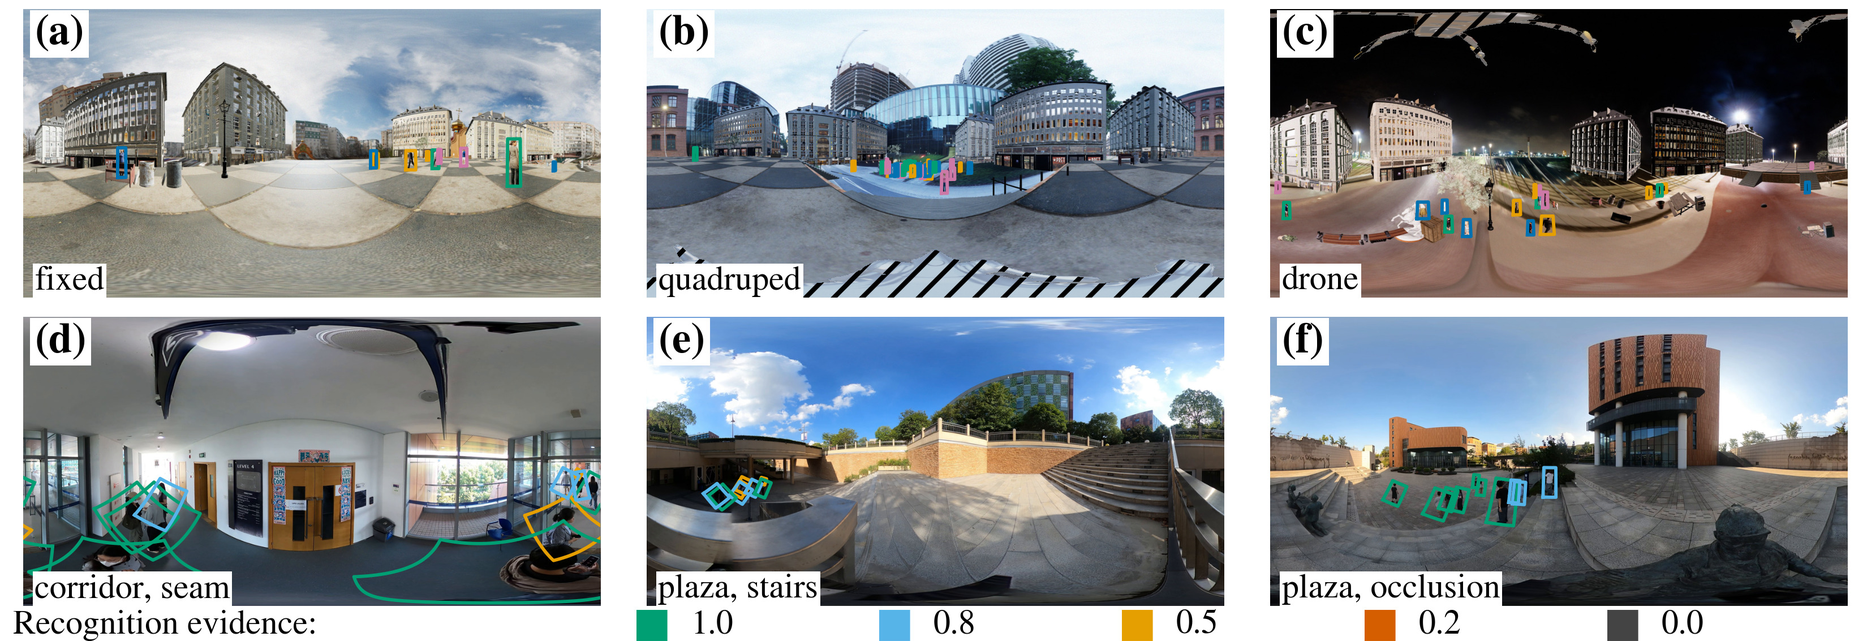
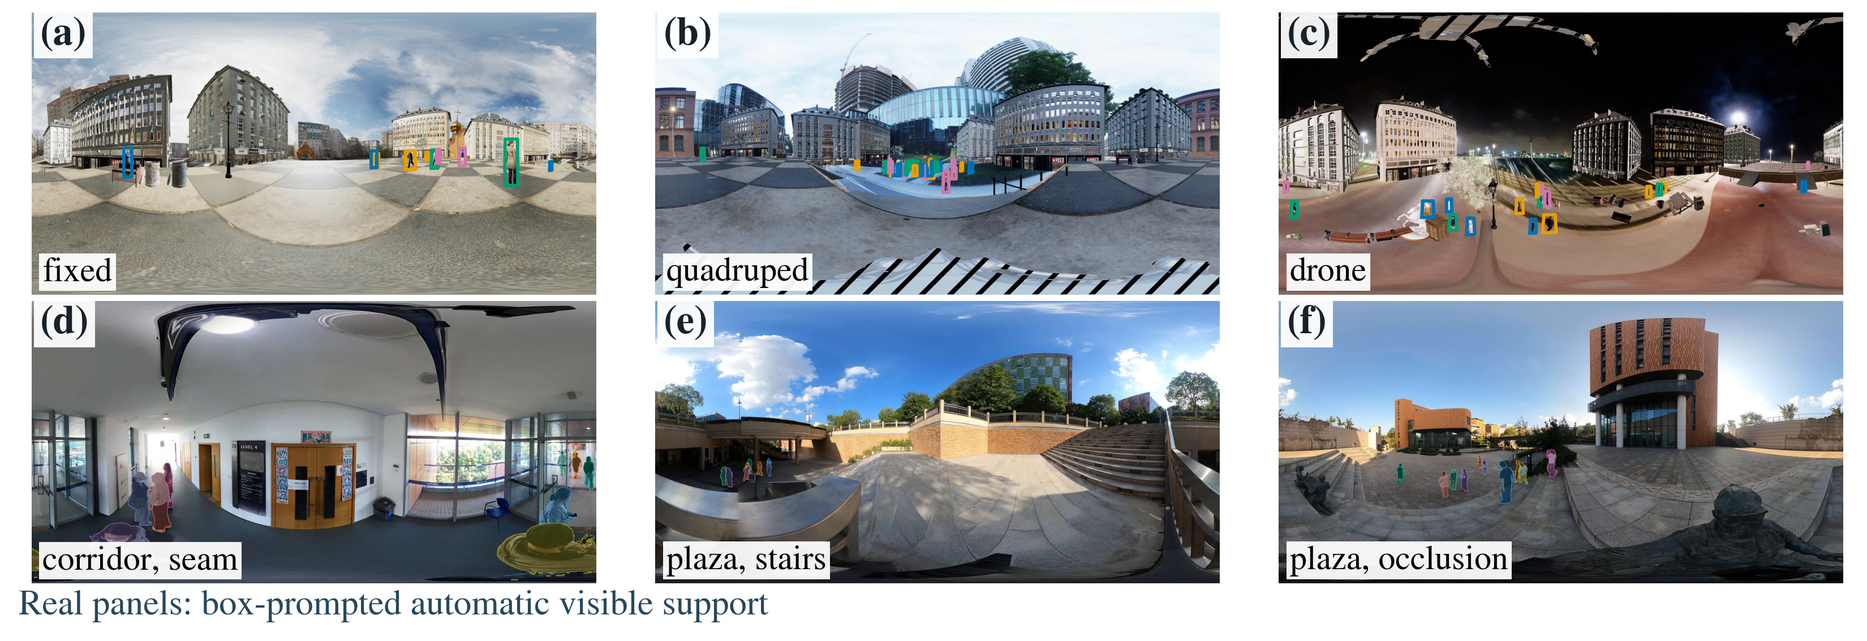
Document PanoPed releases and refresh support figures

diff --git a/README.md b/README.md
@@ -4,38 +4,49 @@
 
 ### Beyond Bounding Boxes for Sim-to-Real Panoramic Pedestrian Tracking
 
-**A full-sphere benchmark and Sextant, a query-conditioned spherical localization readout**
+**Full-sphere pedestrian tracking from fixed cameras, quadrupeds, and drones**
 
-[Project page](https://zhuqinfeng1999.github.io/PanoPed/) · [PanoPed-S](https://drive.google.com/drive/folders/1PjL8_KBVAmPNd1Zony2MQ9ogg1B7d2CR?usp=sharing) · [PanoPed-R](https://drive.google.com/drive/folders/1QYf_ocQALFYrwdfIa6g-bVwnnIQIXA9V?usp=sharing) · [Support-auto](https://drive.google.com/drive/folders/1zpZPpaFzvKcGMS_wfT3lX-uariYtm4Cg?usp=sharing)
+[![PanoPed-S](https://img.shields.io/badge/PanoPed--S-60_sequences-1578B5)](docs/data.md#panoped-s-v100) [![PanoPed-R](https://img.shields.io/badge/PanoPed--R-5_sequences-198F76)](docs/data.md#panoped-r-v090) [![Sextant](https://img.shields.io/badge/Sextant-34%2C692_parameters-8A61B5)](#sextant) [![License](https://img.shields.io/badge/Code-CC_BY--NC--SA_4.0-555555)](LICENSE)
 
-![Fixed, quadruped, drone, and real panoramic scenes](assets/gallery.jpg)
+[**Project page**](https://zhuqinfeng1999.github.io/PanoPed/) · [**Synthetic data**](https://drive.google.com/drive/folders/1PjL8_KBVAmPNd1Zony2MQ9ogg1B7d2CR?usp=sharing) · [**Real data**](https://drive.google.com/drive/folders/1QYf_ocQALFYrwdfIa6g-bVwnnIQIXA9V?usp=sharing) · [**Support-Auto**](https://drive.google.com/drive/folders/1zpZPpaFzvKcGMS_wfT3lX-uariYtm4Cg?usp=sharing)
+
+<img src="assets/gallery.jpg" width="100%" alt="PanoPed synthetic panoramas and real frames with automatically derived visible-support overlays">
+
+<sub>Top: synthetic fixed, quadruped, and drone views with native annotations. Bottom: consented real frames with box-prompted automatic Support-Auto masks; these are not manually drawn pixel labels.</sub>
 
 </div>
 
-**Short synthetic preview:** [drone-mounted ERP footage (MP4)](assets/drone_demo.mp4). The project page will host the full video introduction when the preprint goes online.
+> **Release status.** This repository is private while the arXiv page and public release are prepared. The Google Drive links are the author-provided package locations. Check access and the release-specific license before redistribution. Paper and video-introduction links will be added after posting.
 
-## What is here
+## Start here
 
-PanoPed-S has 60 one-minute synthetic sequences (108,000 frames) from fixed, quadruped-mounted and drone-mounted cameras. PanoPed-R has five real fixed-camera sequences (28,002 frames), of which three are densely annotated (16,247 frames). Support-auto is a separate automatically derived real target; it is **not** a replacement for the original Box-fit labels.
-
-Sextant reads a frozen 256-dimensional detector query, the initial spherical region, and the detection confidence. Its 34,692-parameter head predicts a four-dimensional localization correction. It changes the final spherical localization only; the detector's score, output count and tracker identities stay with the original tracker. The head does not add an image encoder or alter tracker history. The S-trained heads are evaluated on real Support-auto labels without fitting on real labels.
-
-On PanoPed-S TEST, the reported MOTIP baseline is **47.30 HOTA**, versus **49.49 / 49.47** for two Sextant seeds. On real Support-auto, source-only HAT improves from **31.71 to 32.85 HOTA** for seed 42. These are distinct protocols and tracker backbones; they are not a single leaderboard.
-
-## Repository map
-
-| Path | Purpose |
+| I want to… | Go to |
 |---|---|
-| `src/panoped/sextant.py` | Exact frozen-query architecture and spherical residual encode/decode |
-| `src/panoped/cli.py` | Portable bank-based training and inference |
-| `tests/` | Zero-residual, seam-wrap and bank-contract checks |
-| `docs/data.md` | Dataset packages, targets, release validation and licenses |
-| `docs/integration.md` | Frozen MOTIP/HAT integration contract and fair comparison setup |
-| `assets/` | Publication display figures; no dataset sequences or model weights |
+| Download only the RGB and labels needed for tracking | [Download and verify the three releases](docs/download.md) |
+| Understand the directory tree and annotation fields | [Dataset formats](docs/data.md) |
+| Train or apply the Sextant readout | [Quick start](#quick-start) and [integration contract](docs/integration.md) |
+| Compare trackers fairly | [Protocols and evaluation](docs/integration.md#evaluation-protocols) |
+| See representative video | [Synthetic drone ERP preview](assets/drone_demo.mp4); full introduction pending |
 
-The baseline trackers and detectors are **not vendored** here. Install and cite their official implementations under their own licenses. This repository contains the Sextant readout and a framework-neutral integration interface. The original experiment's bank creation and benchmark-evaluation receipts are described in `docs/integration.md`.
+## What is PanoPed?
 
-## Quick start
+| Release | Cameras | Scale | Primary target | Download |
+|---|---|---:|---|---|
+| **PanoPed-S v1.0.0** | 30 fixed, 18 quadruped, 12 drone | 60 × 1 min; 108,000 frames | Mask-derived spherical visible support | [Packages](https://drive.google.com/drive/folders/1PjL8_KBVAmPNd1Zony2MQ9ogg1B7d2CR?usp=sharing) |
+| **PanoPed-R v0.9.0** | Five real fixed-camera sequences | 28,002 frames; 16,247 labeled | Human modal box → spherical **Box-fit** | [Packages](https://drive.google.com/drive/folders/1QYf_ocQALFYrwdfIa6g-bVwnnIQIXA9V?usp=sharing) |
+| **R-Support-Auto v0.1** | Same three labeled real sequences | Annotation-only extension | Human-box-prompted SAM2.1 mask → S-compatible support | [Extension](https://drive.google.com/drive/folders/1zpZPpaFzvKcGMS_wfT3lX-uariYtm4Cg?usp=sharing) |
+
+The two real targets are **different evaluation protocols**. Support-Auto does not overwrite PanoPed-R's manually reviewed modal rectangles or original Box-fit leaderboard. See [the exact file trees and fields](docs/data.md).
+
+## Sextant
+
+<div align="center"><img src="assets/sextant_method.png" width="90%" alt="Sextant reads a frozen detector query, initial spherical geometry and confidence, then changes only final localization"></div>
+
+Sextant is a **34,692-parameter final-location readout**. It takes a frozen 256D detector query, the ordinary spherical initialization, and detection confidence. LayerNorm is applied to the query alone; the concatenated 262D input passes through a 128D GELU hidden layer and a four-value angular residual. It changes the final native spherical region without changing detection count, scores, physical track IDs, association, or tracker history. It does **not** add an image encoder to inference.
+
+In the paper's **PanoPed-S TEST** comparison, MOTIP's ordinary readout obtains 47.30 HOTA; two Sextant seeds obtain **49.49 / 49.47**. In the distinct **source-only real Support-Auto** protocol, HAT's same-stream readout goes from 31.71 to **32.85 HOTA** with Sextant seed 42. These figures use different trackers and targets and must not be merged into a single leaderboard.
+
+### Quick start
 
 ```bash
 python -m venv .venv
@@ -43,28 +54,37 @@ source .venv/bin/activate
 python -m pip install -e '.[test]'
 pytest -q
 
-# One .npz bank per TRAIN sequence; never mix a test sequence into this folder.
+# Export one .npz bank per TRAIN sequence using your frozen, matching detector.
 panoped-sextant train --bank-dir /path/to/train_banks --seed 42 \
   --steps 25000 --device cuda --output /path/to/checkpoints/sextant_s42.pt
 
-# The bank must contain the same frozen detector's query, geometry and score.
 panoped-sextant apply --bank /path/to/prediction_bank.npz \
   --model /path/to/checkpoints/sextant_s42.pt \
   --output /path/to/prediction_native.npz
 ```
 
-`train` expects `query[N,256]`, `base[N,7]`, `confidence[N]`, and `native[N,7]` in finite `float32` arrays, one `.npz` per training sequence. `base` and `native` each contain a unit center ray, log horizontal/vertical angular extents, and the fixed zero-roll release fields. `apply` needs only the first three arrays and passes through additional arrays such as original track IDs and frame offsets. See [the interface contract](docs/integration.md) before connecting it to a tracker.
+The bank contract is `query[N,256]`, `base[N,7]`, `confidence[N]`, and, for training, `native[N,7]` (`float32`). `apply` passes through unrelated arrays, including IDs and frame offsets. The bank must come from the **matching detector checkpoint**; a same-sized HAT or MASA feature is not a substitute for the S-trained MOTIP query. [Read the full integration contract](docs/integration.md) before connecting a tracker.
 
-## Data and evaluation
+## Repository map
 
-Download datasets **directly to your compute server**, validate package checksums, extract only the modalities you need, then remove verified archives if space is limited. The package manifests and verification scripts accompany the releases. See [data.md](docs/data.md) for source links and target distinctions. Do not redistribute participant frames outside the PanoPed-R license.
+```text
+PanoPed/
+├── README.md                  project overview and entry points
+├── LICENSE                    repository code/text terms (CC BY-NC-SA 4.0)
+├── pyproject.toml             installable Sextant package and CLI
+├── assets/                    publication figures and short video preview
+├── docs/
+│   ├── download.md            release URLs, selective extraction, verification
+│   ├── data.md                trees, units, L0–L3, Support-Auto record schema
+│   └── integration.md         query contract, training, evaluation protocols
+├── src/panoped/
+│   ├── sextant.py             architecture and angular residual decode
+│   └── cli.py                 bank-based train/apply commands
+└── tests/                     zero residual, seam, and bank-contract checks
+```
 
-The benchmark uses native spherical regions and HOTA/IDF1; a planar box metric is not a substitute. Report all seeds and all held-out sequences, and keep PanoPed-S, PanoPed-R Box-fit and PanoPed-R Support-auto scores separate. The real three-fold protocol trains on two labeled sequences and scores the third once per fold.
+MOTIP, HAT, detectors, checkpoints, and benchmark RGB are **not vendored**. Install the upstream trackers under their own licenses. The private draft currently provides the Sextant module and a framework-neutral bank interface; the experiment-specific bank exporter and checkpoint manifests still need a clean release adapter. We will not describe it as a one-command exact reproduction until those files are published.
 
-## Citation
+## Citation and permissions
 
-The arXiv identifier is pending. Please cite the paper once it is posted. This repository remains private until the authors announce the preprint.
-
-## License and provenance
-
-The authors have selected [Creative Commons Attribution-NonCommercial-ShareAlike 4.0 International](LICENSE) for the code and repository-authored text. It permits noncommercial reuse subject to attribution and share-alike, but it is **not** an OSI open-source software license, and Creative Commons does not recommend CC licenses for software. The datasets have separate research-use licenses; those terms do **not** automatically grant permission to relicense participant images, third-party assets, or baseline code. The publication figures derive from consented real footage and Unreal Engine renders and are not included in the code-license grant unless their underlying rights permit it. No raw dataset frames, credentials, model weights, or third-party baseline repositories are included here.
+The arXiv identifier is pending. Cite the paper once posted; until then, cite dataset release names and versions. The repository-authored code and text use [CC BY-NC-SA 4.0](LICENSE), a noncommercial Creative Commons license **not recognized as an OSI open-source software license**. It does not relicense participant footage, third-party assets, baseline implementations, or model weights. Each dataset package carries its own `LICENSE`, attribution, and release metadata; read those before use.

diff --git a/docs/data.md b/docs/data.md
@@ -1,18 +1,92 @@
-# PanoPed datasets
+# Dataset formats and target definitions
 
-| Release | Folder | Scope |
+The release-side `README.md`, `metadata/conventions.md`, schemas and verifier are authoritative. This guide is a compact entry point for training and evaluation code. All frame filenames are **one-based, six-digit** indices; sequences are the unit of splitting.
+
+## PanoPed-S v1.0.0
+
+The frozen split is 44 TRAIN / 8 VAL / 8 TEST sequences, each 1,800 frames at 30 fps. There are 30 fixed sequences (`SS-001`–`SS-030`), 18 quadruped and 12 drone sequences within `SE-001`–`SE-030`. Most frames are 2048×1024; four fixed TEST sequences are 3840×1920. Read `seqinfo.ini` and `meta.json` for each sequence instead of assuming one resolution.
+
+```text
+PanoPed-S/
+├── README.md  LICENSE  splits.json
+├── seqmaps/{train,val,test}.txt
+├── metadata/{conventions.md,sequences.json,checksums.sha256,...}
+├── tools/verify_release.py
+├── S-Static/SS-001/ … SS-030/
+└── S-Ego/SE-001/ … SE-030/
+    ├── img1/000001.jpg … 001800.jpg      RGB panorama
+    ├── gt/
+    │   ├── gt_l0.json                    per-instance COCO RLE mask
+    │   ├── gt_l1.json                    mask-derived spherical BFoV
+    │   ├── gt_l2.json                    wrap-aware ERP box
+    │   ├── gt.txt                        MOTChallenge-compatible L3 export
+    │   ├── mount_ignore.json             fixed support ignore polygon
+    │   └── platform_ignore.json          moving platform, S-Ego only
+    ├── meta.json  seqinfo.ini  log3d.jsonl  lifecycle.json
+    ├── qc_postprocess.json
+    ├── depth/                             optional radial uint16 PNGs
+    └── instance/                          optional instance-ID uint16 PNGs
+```
+
+The `training_required` package profile contains RGB, annotations and metadata, **not** dense `depth/` or `instance/` directories. Their absence is normal under that profile. L0 `gt_l0.json` and L1/L2 are still present.
+
+| Level | File | Record / units |
 |---|---|---|
-| PanoPed-S v1.0.0 | [Google Drive](https://drive.google.com/drive/folders/1PjL8_KBVAmPNd1Zony2MQ9ogg1B7d2CR?usp=sharing) | 60 sequences, 108,000 synthetic ERP frames; RGB, depth, masks, poses, 3D states are packaged separately |
-| PanoPed-R v0.9.0 | [Google Drive](https://drive.google.com/drive/folders/1QYf_ocQALFYrwdfIa6g-bVwnnIQIXA9V?usp=sharing) | Five real fixed-camera sequences; three labeled, two unlabeled |
-| PanoPed-R-Support-Auto v0.1 | [Google Drive](https://drive.google.com/drive/folders/1zpZPpaFzvKcGMS_wfT3lX-uariYtm4Cg?usp=sharing) | Automatically generated auxiliary support targets; separate evaluation protocol |
+| L0 | `gt_l0.json` | `{"W":2048,"H":1024,"frames":{"1":[{"id":1,"rle":{"size":[H,W],"counts":"…"},"area_px":…,"area_sr":…}]}}`; compressed COCO RLE, column-major counts |
+| L1 | `gt_l1.json` | `frames["1"][k] = {"id":1,"bfov":[clon,clat,fov_h,fov_v]}`; **degrees**, mask-derived |
+| L2 | `gt_l2.json` | `id`, `bbox:[x,y,w,h]` in pixels, `wrap`, `polar`, `visibility`; `x+w>W` is legal for a seam-crossing box |
+| L3 | `gt.txt` | Nine MOTChallenge columns: frame, ID, left, top, width, height, conf, class, visibility; seam fragments may occupy two rows |
 
-The original R-v0.9.0 **Box-fit** region and Support-auto region are different target definitions. Support-auto uses automatic masks prompted by human boxes, then applies the S-compatible target operator. It is not a human mask ground truth. Do not compare scores across the two real targets without rerunning every system on the same target.
+`visibility` takes 1.0 / 0.8 / 0.5 / 0.2 / 0.0. Synthetic visibility is a joint-support proxy; `visibility_ratio_raw` is only a diagnostic and is **not** the released label. Person IDs are sequence-local, never reused, and persist through occlusion. The ERP ray through pixel `(i,j)` uses `(i+0.5,j+0.5)`; `mount_ignore` polygon vertices use integer pixel-center index coordinates and closed-boundary membership. See `metadata/conventions.md` for the exact spherical and ignore-mask rules.
 
-The release packages include manifests and verification programs. Before training:
+## PanoPed-R v0.9.0
 
-1. Read each dataset's own research-use license and package manifest.
-2. Download to server-side scratch/work storage; do not mirror all modalities by default.
-3. Verify SHA-256 and the release verifier before deleting archives.
-4. Freeze sequence splits and keep test labels out of model/threshold selection.
+All five sequences use 3840×1920 gravity-aligned ERP at 29.97 fps. The camera is fixed; the release includes three densely labeled sequences and two unlabeled sequences.
 
-For PanoPed-S, the `training_required` profile contains the core package plus 60 RGB/label packages. Depth and instance archives are optional for tracking benchmarks. The real dataset and Support-auto extension have separate package identities and licensing terms. Their Drive sharing settings should be verified without logging in before public release; the presence of a URL alone is not proof of anonymous access.
+```text
+PanoPed-R-v0.9.0/
+├── README.md  LICENSE  metadata/  seqmaps/  tools/verify_release.py
+├── labeled/PanoPed-R-01/   # 5,486 frames
+├── labeled/PanoPed-R-02/   # 6,416 frames
+├── labeled/PanoPed-R-03/   # 4,345 frames
+│   ├── img1/000001.jpg …
+│   ├── seqinfo.ini
+│   └── gt/
+│       ├── gt_bfov.json       spherical L1 Box-fit target
+│       ├── gt_wrap.txt        wrap-aware ERP L2 fragments/hints
+│       ├── gt.txt             scoreable/ignore L3 MOT rows
+│       ├── tracks.json        reviewed identity/visibility state
+│       └── ignore_regions.json
+└── unlabeled/{PanoPed-R-U01,PanoPed-R-U02}/
+    ├── img1/
+    └── seqinfo.ini
+```
+
+The R-v0.9.0 L1 `gt_bfov.json` contains `annotations` and `meta`. Each annotation includes `frame`, `id`, `clon`, `clat`, `fov_h`, `fov_v`, `world_to_local`, `local_bounds`, `visibility`, and flags. **R angles are radians**, and the native orientation and asymmetric bounds must be retained. R L1 is fitted from manually reviewed **modal rectangles**, not from human masks. L3 `gt.txt` uses `conf=1` for scoreable rows and `conf=0` for ignore; do not treat every row as a positive target. Source-video removed frames are not part of the package. The evaluation split is three leave-one-sequence-out (LOSO) folds in `seqmaps/`; each labeled frame is a test frame exactly once.
+
+## PanoPed-R-Support-Auto v0.1
+
+This is an **annotation-only auxiliary release**, aligned to R's three labeled sequences. Human modal boxes prompt the frozen SAM2.1 Hiera-large image predictor. Automatic mask pixels then pass through the same support-domain operator used for S. They are **not** manually verified instance masks and do not replace R's Box-fit labels.
+
+```text
+PanoPed-R-Support-Auto-v0.1/
+├── README.md  LICENSE  checksums.sha256
+├── labels/{PanoPed-R-01,PanoPed-R-02,PanoPed-R-03}.jsonl.gz
+├── protocol.json  fold_access.json  usable_rule.json
+├── synthetic_calibration.json  synthetic_check.json
+├── release_validation.json  source_manifest.json
+└── code/                  frozen generator and geometry implementation
+```
+
+Each gzip JSONL line is one original object-frame. Important fields are `sequence`, `frame` (one-based), `id`, `mask_rle` (COCO RLE with `size:[H,W]` and compressed `counts`), `native_support` (`clon_deg`, `clat_deg`, `fov_h_deg`, `fov_v_deg`), `quality`, `failure_reason`, `usable_for_training`, `source_rgb_sha`, and `source_annotation_sha`. **Support-auto angles are degrees**. Failed/zero-visible masks remain records with null support and a failure reason; absence is unknown, not background. For a LOSO fold, train on auxiliary labels from the two training sequences only; the held-out file is for scoring, not model selection.
+
+## Geometry and fair comparisons
+
+For ERP width `W`, height `H`, pixel-center longitude and latitude are:
+
+```text
+lon = 2π(x + 0.5)/W − π
+lat = π/2 − π(y + 0.5)/H
+```
+
+Horizontal coordinates are periodic. Planar IoU cannot replace native spherical region IoU. **S L1 (degrees), R Box-fit L1 (radians and oriented/asymmetric), and R Support-Auto (degrees, automatically mask-derived) are not interchangeable.** Every score table must state its release, target, tracker backbone, and train/test protocol. See [download and verification](download.md) and [integration](integration.md).

diff --git a/docs/download.md b/docs/download.md
@@ -1,0 +1,56 @@
+# Download and verify PanoPed
+
+The three downloads below are **separate releases**. PanoPed-R-Support-Auto is an annotation-only extension and needs PanoPed-R RGB for visualization or inference. Do not mix its target with the original real Box-fit benchmark.
+
+| Release | Author-provided Google Drive folder | What to retrieve |
+|---|---|---|
+| PanoPed-S v1.0.0 | [Synthetic packages](https://drive.google.com/drive/folders/1PjL8_KBVAmPNd1Zony2MQ9ogg1B7d2CR?usp=sharing) | Core + RGB/labels for tracking; optional depth and instance packages |
+| PanoPed-R v0.9.0 | [Real packages](https://drive.google.com/drive/folders/1QYf_ocQALFYrwdfIa6g-bVwnnIQIXA9V?usp=sharing) | Release packages and manifests under their own license |
+| PanoPed-R-Support-Auto v0.1 | [Auto-support extension](https://drive.google.com/drive/folders/1zpZPpaFzvKcGMS_wfT3lX-uariYtm4Cg?usp=sharing) | Labels, frozen generator receipt, validation and checksums |
+
+The links are locations supplied by the authors; this repository does **not** assert that anonymous download is already enabled. Confirm folder permissions before announcing a public release.
+
+## PanoPed-S: tracking-only installation
+
+The recommended `training_required` profile consists of exactly **61 archives**: one core archive plus one `rgb-labels` archive for each of 60 sequences. There are also `packages.json`, `packages.sha256`, and `package_verification.json` manifests. Download these files to a compute-server scratch/work disk; do not fetch the optional `depth` or `instance` archives unless your task needs them.
+
+```text
+PanoPed-S-v1.0.0-core.tar.zst
+PanoPed-S-v1.0.0-SS-001-rgb-labels.tar.zst
+...
+PanoPed-S-v1.0.0-SE-030-rgb-labels.tar.zst
+packages.json
+packages.sha256
+package_verification.json
+```
+
+From the directory containing those archives and manifests:
+
+```bash
+# Verify every required archive before extracting.
+grep -E '(core|rgb-labels)\.tar\.zst$' packages.sha256 | sha256sum -c -
+
+# Each archive contains the same PanoPed-S/ parent; extract together.
+for archive in PanoPed-S-v1.0.0-core.tar.zst PanoPed-S-v1.0.0-*-rgb-labels.tar.zst; do
+  tar --zstd -xf "$archive"
+done
+
+python3 PanoPed-S/tools/verify_release.py PanoPed-S --profile training_required
+# Expected final line: VERIFY_RELEASE OK
+```
+
+The verified release contains **60 sequences and 108,000 frames**. Only after checksum, extraction, and verifier success may you delete the **61 archive copies** to reclaim storage; retain the extracted dataset and manifests. The `complete` profile adds dense depth/instance raster archives and needs much more disk space. Select the profile before downloading.
+
+## PanoPed-R and Support-Auto
+
+Unpack the real release according to its own `README.md`, then run:
+
+```bash
+python3 /path/to/PanoPed-R-v0.9.0/tools/verify_release.py /path/to/PanoPed-R-v0.9.0
+```
+
+PanoPed-R contains `labeled/PanoPed-R-01` through `-03`, `unlabeled/PanoPed-R-U01` and `U02`, and frozen LOSO seqmaps. Keep all five sequences and their metadata intact. Support-Auto's compressed `labels/PanoPed-R-0X.jsonl.gz` files are aligned to those labeled sequence names and one-based frame numbers. Verify its `checksums.sha256` and `release_validation.json` before use; read `fold_access.json` to prevent auxiliary training labels from crossing a LOSO fold.
+
+## Permissions and storage
+
+Read each release's `LICENSE` and attribution files before use. The repository's CC BY-NC-SA license does not override dataset terms or participant consent. Do not upload raw real frames or original model checkpoints back into this repository. Keep RGB, labels, outputs, and checkpoints in separate directories; a shared parent is not a reason to edit the frozen release. See [dataset formats](data.md) and [evaluation protocols](integration.md#evaluation-protocols).

diff --git a/docs/integration.md b/docs/integration.md
@@ -16,6 +16,24 @@ Use the official MOTIP and HAT repositories/checkpoints under their upstream ter
 
 Real Box-fit and Support-auto need their own fixed geometric converters and evaluator targets. Applying an S-native head to R Box-fit without the correct R converter is invalid; reporting a Support-auto result as a Box-fit result is equally invalid. Source-only means the readout was trained on S and did not fit real labels; it does not imply that the detector or tracker never used external pretraining.
 
+## Evaluation protocols
+
+| Protocol | Training and model selection | Test target | Reporting rule |
+|---|---|---|---|
+| PanoPed-S | 44 TRAIN sequences; 8 VAL sequences | 8 held-out TEST sequences, 14,400 frames | Native mask-derived BFoV, all sequences and both seeds |
+| PanoPed-R Box-fit LOSO | Each fold trains on two labeled sequences | The other labeled sequence, 16,247 pooled out-of-fold frames | Native oriented/asymmetric R Box-fit BFoV, pooled TrackEval counts |
+| S → R Support-Auto | Sextant readout trained only on S, no R label fit | All three labeled R sequences under frozen Support-Auto scoring | Same tracker and detection stream for ordinary versus Sextant readout; both seeds and each sequence |
+
+The R-only and source-only runs are distinct. The auxiliary Support-Auto evaluator must be frozen before evaluating a method, and every comparison method must be rescored on that same target. A score on the original R Box-fit target cannot be compared numerically with a Support-Auto score. Identity metrics can change after localization changes because evaluation matches different regions; that does not mean the identity network was retrained or improved.
+
+### Reproduction checklist
+
+1. Record the dataset release/version and its verifier result, the LOSO or S split files, and image resolution.
+2. Record the upstream detector/tracker code version, pretrained checkpoint SHA-256, query dimensionality, and association settings.
+3. Keep detector outputs, score thresholds, physical IDs and track state unchanged when applying Sextant; only the final spherical region may differ.
+4. Score every held-out sequence, including false positives, with the same native-region evaluator and all 19 IoU thresholds. Aggregate original counts rather than averaging sequence percentages.
+5. Publish both Sextant seeds and the same-stream ordinary baseline. Separate S, R Box-fit, and R Support-Auto tables.
+
 ## What is not included
 
 The internal training-bank exporter is entangled with frozen baseline implementations and machine-specific experiment receipts, so it is not copied verbatim. To reproduce the exact published numbers, use the matching upstream detector/tracker checkpoint and preserve the per-query bank contract above. We will add a clean upstream adapter and checkpoint manifests before public repository release. Until then this is a private code-review draft, not a complete one-command reproduction package.

diff --git a/assets/README.md b/assets/README.md
@@ -1,5 +1,10 @@
-# Figure provenance and rights
+# Publication display assets
 
-`gallery.jpg` and `real_overview.jpg` are publication-size derivatives of fixed PanoPed-S Unreal Engine frames and consented PanoPed-R frames, with released annotation curves overlaid. They are provided to illustrate the paper and are **not** additional training data or an invitation to redistribute the source frames. The source datasets' respective research-use licenses and participant-consent restrictions govern the underlying images. The repository's CC BY-NC-SA code license does not override those rights or any upstream synthetic asset license.
+- `gallery.jpg`: Fig. 2 of the arXiv edition. Synthetic panels (a–c) use frozen PanoPed-S RGB and native annotations. Real panels (d–f) use consented PanoPed-R frame derivatives and **automatic** visible-support masks from PanoPed-R-Support-Auto v0.1.
+- `real_overview.jpg`: Fig. 8. The same frozen Support-Auto masks and released track IDs are overlaid on three real frames; the fourth panel is exactly the first frame shifted 180° in longitude.
+- `sextant_method.png`: raster preview of the paper's vector method figure.
+- `drone_demo.mp4`: short synthetic ERP preview. The full video introduction, including genuine third-person UE platform footage, is pending.
 
-The real display derivatives were regenerated from SHA-checked original release frames for the non-anonymous arXiv edition. The submitted anonymous ICLR figures remain pixelated and separate.
+The real RGB frames used in the arXiv publication assets are consented, non-anonymous display derivatives. The ICLR review figures remain pixelated and untouched in their separate project. No generated people or synthesized replacement backgrounds were added to these figures. Publication derivatives are **not** an additional dataset or training source; the releases' own licenses and participant-consent restrictions govern source imagery. The repository's CC BY-NC-SA license does not override them.
+
+Figure source and SHA receipts are retained in the separate local research workspace at `paper_figures/arxiv_build/`; no raw participant frames or frozen label archives are committed to this code repository.
